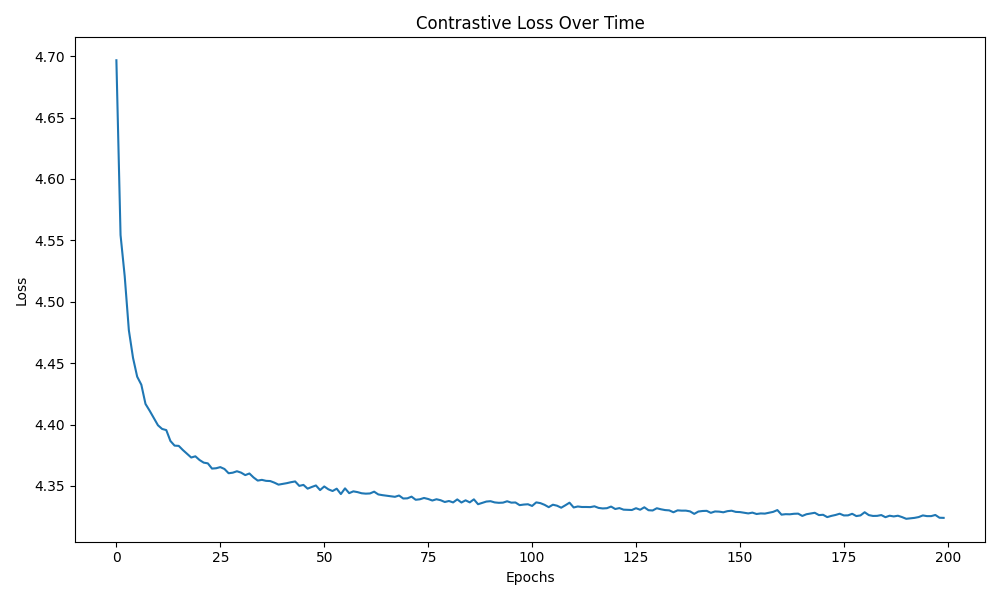
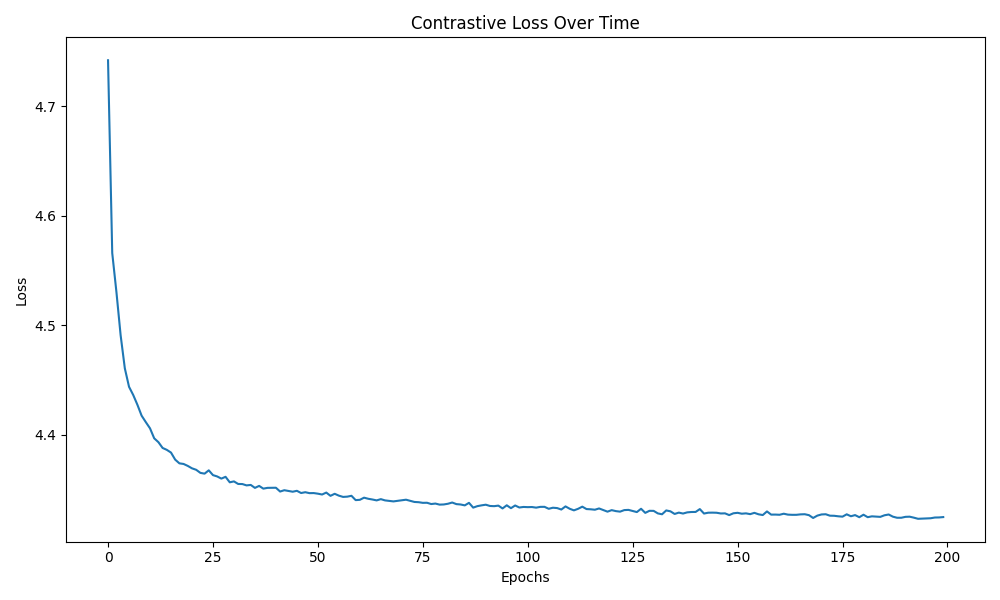
Added learnable pooling weights, (0.5557, 0.0165)

diff --git a/src/models/ContrastiveLearning.py b/src/models/ContrastiveLearning.py
@@ -37,7 +37,7 @@ class PositionalEncoding(nn.Module):
         return x + self.pe[:, :x.size(1), :].to(x.device) # Add positional encoding to the input
     
 class AttentionFeatureExtractor(nn.Module):
-    def __init__(self, input_size, hidden_size, output_size, num_heads=4):
+    def __init__(self, input_size, hidden_size, output_size, num_heads=4, max_len=100):
         super(AttentionFeatureExtractor, self).__init__()
 
         self.input_projection = nn.Linear(input_size, hidden_size)
@@ -45,6 +45,9 @@ class AttentionFeatureExtractor(nn.Module):
         self.attention = nn.MultiheadAttention(embed_dim=hidden_size, num_heads=num_heads, batch_first=True)
         self.fc = nn.Linear(hidden_size, output_size)
         self.layer_norm = nn.LayerNorm(hidden_size)
+
+        # Learnable pooling weights
+        self.pooling_weights = nn.Parameter(torch.ones(max_len))
 
     def forward(self, x):
         if x.dim() == 2:
@@ -56,7 +59,10 @@ class AttentionFeatureExtractor(nn.Module):
         attn_output, _ = self.attention(x, x, x) # Self-Attention across time steps
         attn_output = self.layer_norm(attn_output + x) # Residual Connection & normalizaiton
 
-        pooled_output = attn_output.mean(dim=1) # Aggregate time step info
+        weights = F.softmax(self.pooling_weights[:attn_output.size(1)], dim=0)
+        pooled_output = torch.sum(attn_output * weights.unsqueeze(0).unsqueeze(-1), dim=1)
+
+        # pooled_output = attn_output.mean(dim=1) # Aggregate time step info
         return self.fc(pooled_output) # Map to the final output embedding
     
 # Projection head for contrastive loss

diff --git a/src/main.py b/src/main.py
@@ -22,7 +22,7 @@ def parse_args():
                       help='label type: 1 for Press, 0 for DS+/DS- (default: 1)')
     return parser.parse_args()
 
-def main():
+def main(flag=False):
     """Focus on feature extraction from clustering"""
     args = parse_args()
     df = load_file('PFC_con_4.csv')
@@ -54,8 +54,9 @@ def main():
 
 
     train_encoder(encoder, train_dataloader_encoder, optimizer, device, num_epochs=200, print_bool=True)
-    # evaluate_encoder(encoder, test_dataloader, device)
-    # return # Breakpoint for t-SNE visualization
+    if flag:
+        evaluate_encoder(encoder, test_dataloader, device)
+        return # Breakpoint for t-SNE visualization
 
     model = TestClassifier(encoder, 128, 1)
     model = model.to(device)
@@ -69,15 +70,15 @@ def main():
     return accuracy, precision, recall, f1
 
 if __name__ == "__main__":
-    visualize_flag = True
+    visualize_flag = False
     if not visualize_flag:
-        main()
+        main(True)
 
     # True is training model
     if visualize_flag:
         accuracies, precisions, recalls, f1s = [], [], [], []
         for i in range(5):
-            accuracy, precision, recall, f1 = main()
+            accuracy, precision, recall, f1 = main(False)
             accuracies.append(accuracy)
             precisions.append(precision)
             recalls.append(recall)
